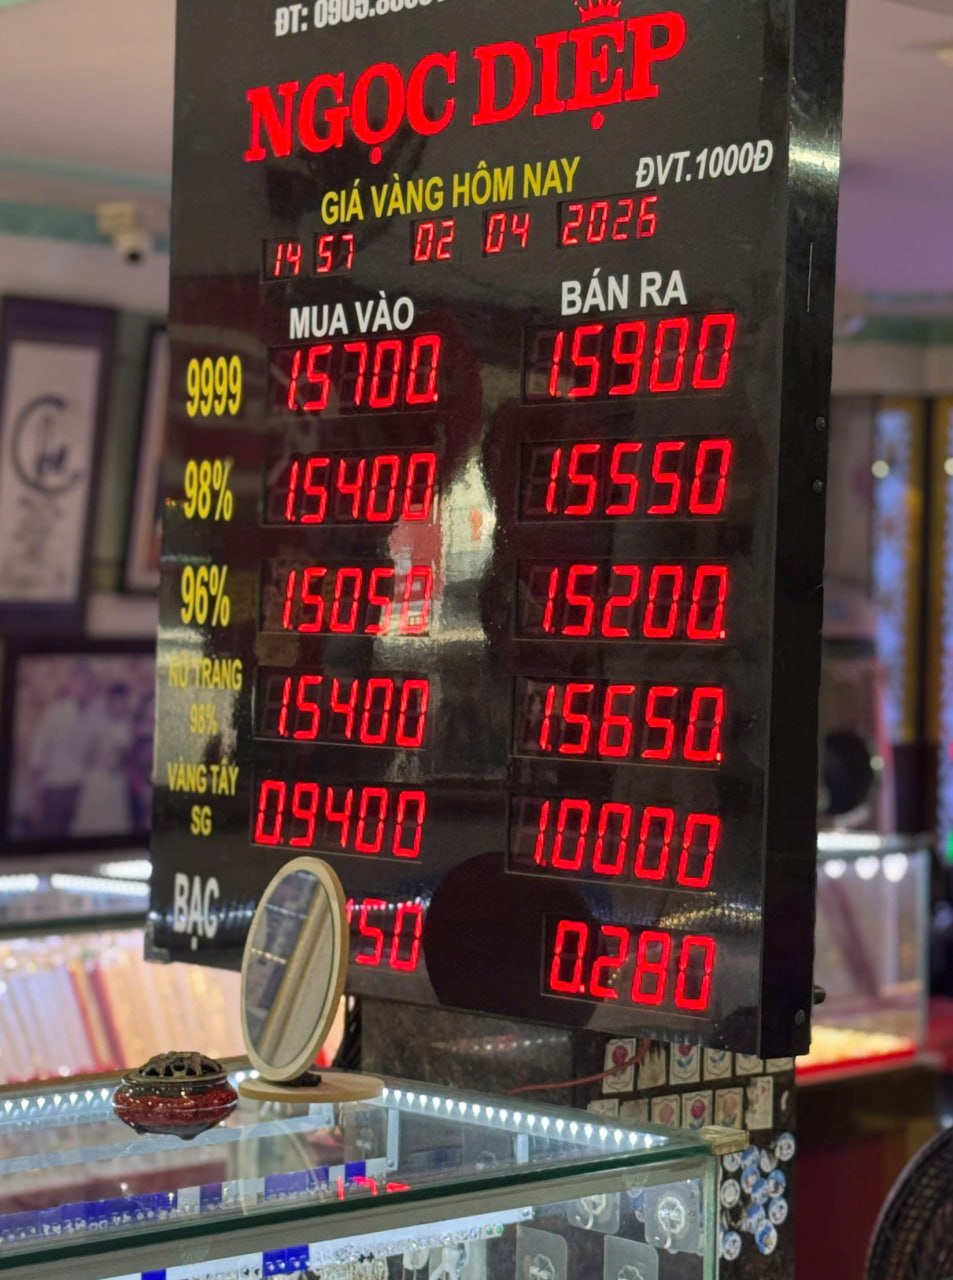
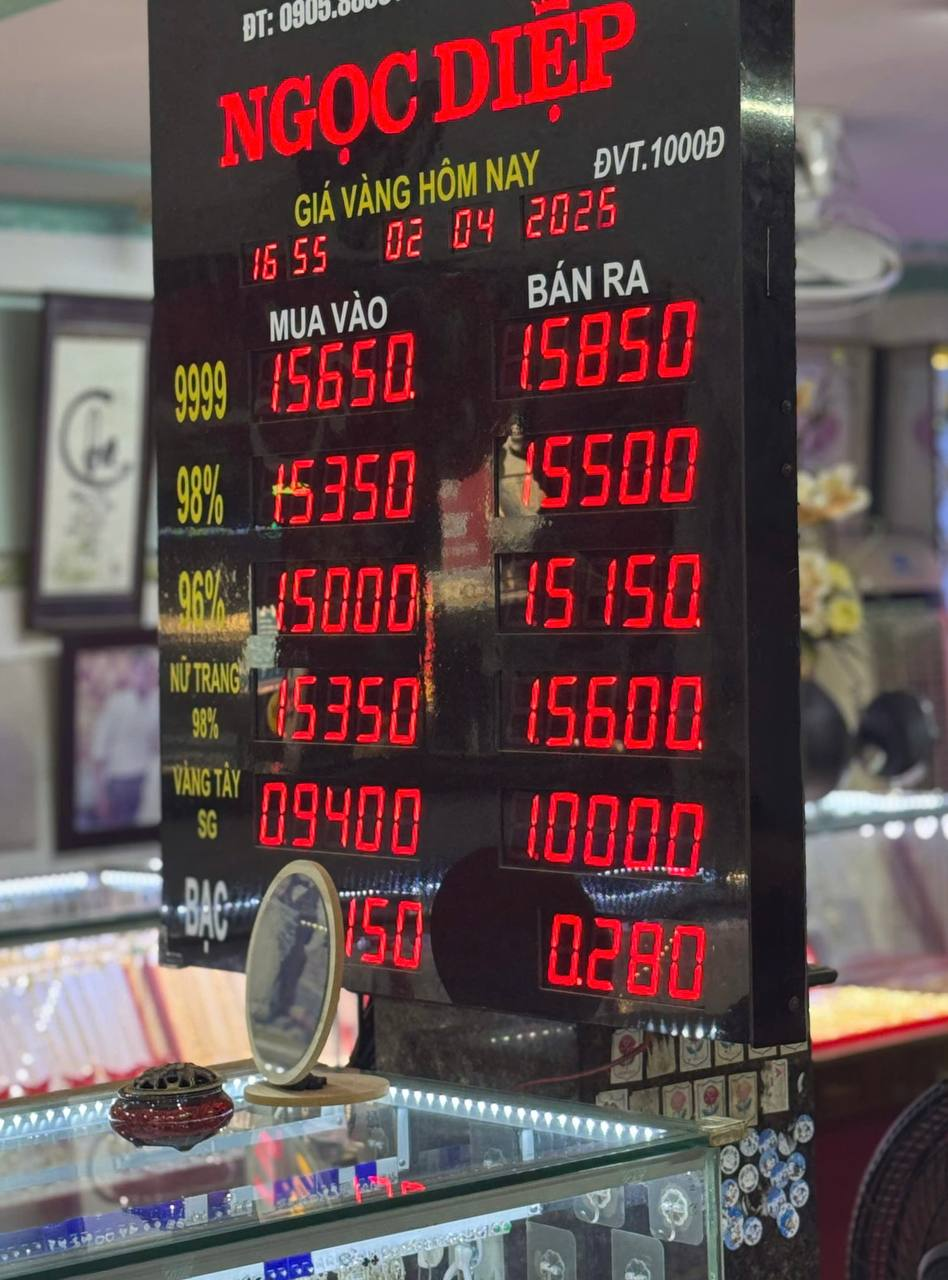
Update ngoc-diep price image (17:55)

diff --git a/app/data/goldShops.ts b/app/data/goldShops.ts
@@ -12,7 +12,7 @@ export const GOLD_SHOPS: GoldShop[] = [
     name: "Ngọc Diệp",
     location: "Đà Nẵng",
     image: "images/ngoc-diep.jpg",
-    updatedAt: "15:15",
+    updatedAt: "17:55",
   },
   {
     id: "ngoc-thinh",
